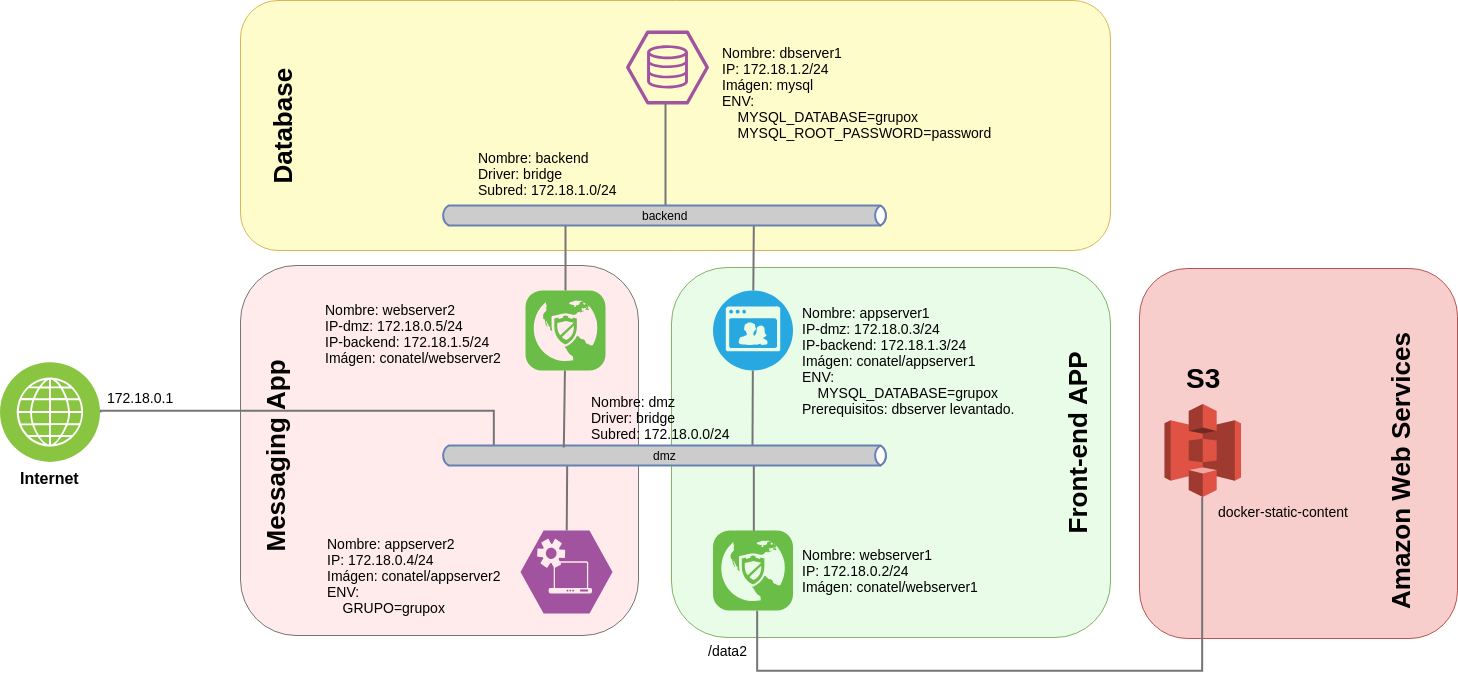
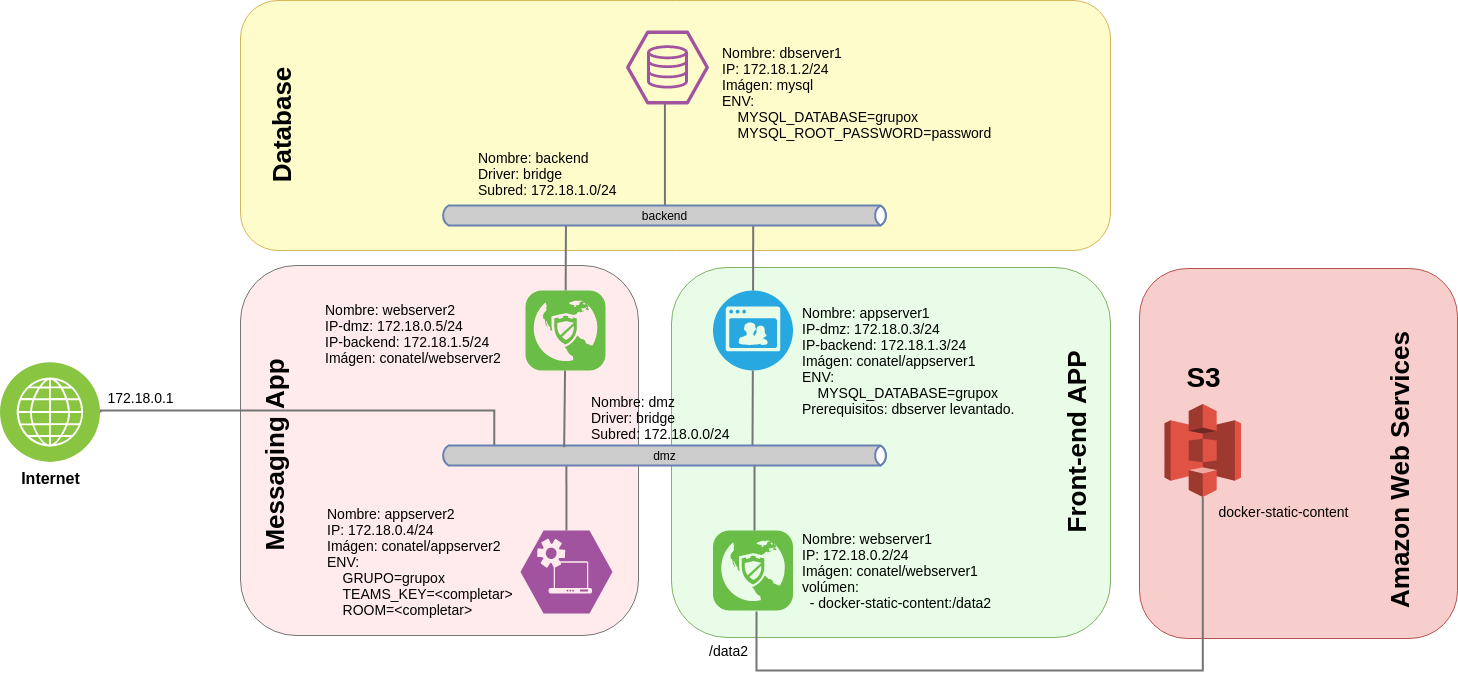
actualizo letra desafio final

diff --git a/Docker-101/Desafio final.md b/Docker-101/Desafio final.md
@@ -2,8 +2,6 @@
 
 ![alt desafio_final](desafio_final.png)
 
-
-
 ## Objetivo
 
 El objetivo del desafío final es elaborar la topología que se muestra en la figura mas arriba utilizando `docker-compose` y ponerla a correr en el servidor utilizado para los laboratorios.
@@ -18,9 +16,21 @@ Si todo sale bien, además de recibirse el mensaje en el grupo de `Webex Teams` 
 
 ![alt desafio_final](desafio_success.png)
 
+## Requerimientos:
+
+### Usuario Webex Team
+
+Deben registarse como usuario en [Cisco Webex Teams](https://teams.webex.com/signin), con la misma dirección de correo que utilziaron para el curso.
+
+Serán agregados a un grupo de teams (room), cuyo nombre indicará el instructor durante el curso. Prueben que pueden enviar mensaje a dicho grupo, desde la página de Cisco Webex Teams.
+
+Ese mismo grupo es el que deben utilizar en el desafío final, en la variable de entorno `ROOM`.
 
 
+### API Webex Teams
 
+Para obtener la api se debe ingresar con un usuario registrado de Cisco a:
 
+https://developer.webex.com/docs/getting-started
 
-
+![Token de API](webexapi.png)
